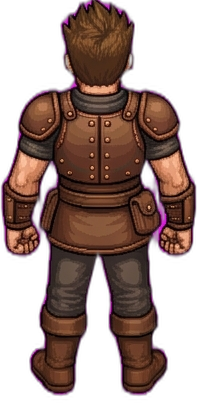
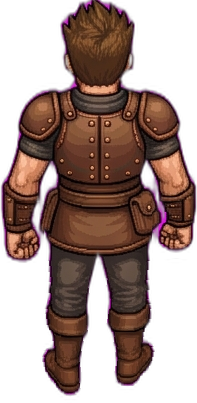
Andar para cima/baixo com passada de verdade (4 quadros)
- tools/player/make_walk_vertical.py gera os ciclos de andar e correr
  para cima e para baixo a partir da arte original: cada perna e
  animada separadamente (contato, passagem) e os bracos balancam
  ao contrario. Antes, para cima eram 3 copias do boneco parado e
  para baixo a mesma perna ficava levantada nos 2 quadros
- game.js carrega 4 quadros em todas as direcoes; de frente/costas o
  balanco vira transferencia de peso para o lado (sem rotacao)

diff --git a/js/game.js b/js/game.js
@@ -230,7 +230,7 @@ class Game {
     // 2. Walk
     ['down', 'up', 'left', 'right'].forEach(dir => {
       this.images.player.walk[dir] = [];
-      const count = (dir === 'left' || dir === 'right') ? 4 : 2;
+      const count = 4;   // 4 quadros em todas as direcoes (cima/baixo: tools/player/make_walk_vertical.py)
       for (let i = 0; i < count; i++) {
         const img = new Image();
         img.src = `assets/player/v2/walk/${dir}_${i}.png?v=${v}`;
@@ -242,7 +242,7 @@ class Game {
     // 3. Run (Athletic Sprint)
     ['down', 'up', 'left', 'right'].forEach(dir => {
       this.images.player.run[dir] = [];
-      const count = (dir === 'left' || dir === 'right') ? 4 : 2;
+      const count = 4;   // 4 quadros em todas as direcoes (cima/baixo: tools/player/make_walk_vertical.py)
       for (let i = 0; i < count; i++) {
         const img = new Image();
         img.src = `assets/player/v2/run/${dir}_${i}.png?v=${v}`;
@@ -3102,11 +3102,14 @@ class Game {
     // Organic walking/running step cadence and subtle torso weight sway
     let stepBounce = 0;
     let swayAngle = 0;
+    let swayX = 0;
     if (this.player.isMoving && !jumpOff && !isSit) {
       // quique e balanco ligados a fase do passo (2 quiques por ciclo, minimo nos contatos do pe)
       const ph = (this.player.stridePhase || 0) * Math.PI * 2, spd = Math.min(1, Math.hypot(this.player.vx, this.player.vy) / 150);
       stepBounce = Math.sin(ph) ** 2 * (this.player.isRunning ? 3.2 : 1.8) * spd;   // sin^2: suave, sem "quina" de |sin|
-      swayAngle = Math.sin(ph) * (this.player.isRunning ? 0.045 : 0.022) * spd;
+      // De lado o corpo inclina; de frente/costas inclinar parece um pendulo: o peso passa de um pe para o outro (desliza para o lado)
+      if (this.player.direction === 'up' || this.player.direction === 'down') swayX = Math.sin(ph) * (this.player.isRunning ? 1.6 : 1.0) * spd;
+      else swayAngle = Math.sin(ph) * (this.player.isRunning ? 0.045 : 0.022) * spd;
     }
 
     // 1. Ground Shadow (shrinks smoothly when jumping in air)
@@ -3192,7 +3195,7 @@ class Game {
     if (frame && frame.naturalHeight > 0) {
       targetW = Math.round((frame.naturalWidth / frame.naturalHeight) * targetH);
     }
-    const drawX = px - targetW / 2;
+    const drawX = px - targetW / 2 + swayX;
     const drawY = py - targetH + 6 - jumpOff - stepBounce;
 
     // Precision Hand Socket Lookup

diff --git a/index.html b/index.html
@@ -207,6 +207,6 @@
   <script src="js/town_plans.js?v=4"></script>
   <script src="js/town_builder.js?v=5"></script>
   <script src="js/palace.js?v=69"></script>
-  <script src="js/game.js?v=72"></script>
+  <script src="js/game.js?v=73"></script>
 </body>
 </html>

diff --git a/tools/player/make_walk_vertical.py b/tools/player/make_walk_vertical.py
@@ -1,0 +1,120 @@
+"""make_walk_vertical.py - Gera os ciclos de andar/correr PARA CIMA e PARA BAIXO do boneco (assets/player/v2).
+
+A arte original tinha so 2 quadros nessas direcoes (para cima eram 3 copias do boneco parado; para baixo a
+perna direita ficava levantada nos dois quadros), entao ele "deslizava" como um robo. Aqui cada perna e
+recortada abaixo do quadril e animada separadamente:
+
+  quadro 0: contato   - apoio na perna esquerda, calcanhar direito saindo do chao
+  quadro 1: passagem  - perna direita dobrada e levantada, passando
+  quadro 2: contato   - espelho do 0
+  quadro 3: passagem  - espelho do 1
+
+Os bracos balancam ao contrario das pernas. Cada quadro tem o tamanho do original (o jogo escala pela
+altura da imagem: mudar o tamanho mudaria o tamanho do boneco).
+
+As bases ficam guardadas em walk/_base_down.png e walk/_base_up.png (copias da arte original), entao o
+script pode rodar de novo sem degradar. Uso: python tools/player/make_walk_vertical.py [assets/player/v2]
+"""
+import os
+import sys
+from PIL import Image
+
+ROOT = sys.argv[1] if len(sys.argv) > 1 else os.path.join(os.path.dirname(os.path.abspath(__file__)), '..', '..', 'assets', 'player', 'v2')
+LEG_TOP = 258                 # linha onde as pernas saem da tunica (sprites de 403-405 px)
+ARM_TOP, ARM_BOT = 196, 266   # trecho do antebraco/mao que balanca
+ARM_L, ARM_R = 44, 152        # colunas: braco esquerdo x < ARM_L, braco direito x >= ARM_R
+CLEAR = (0, 0, 0, 0)
+
+
+def legs_split(im):
+    """coluna do vao entre as pernas (menos pixels opacos na faixa central logo abaixo do quadril)"""
+    a = im.split()[3]
+    cols = range(im.width // 2 - 20, im.width // 2 + 20)
+    return min(cols, key=lambda x: sum(a.getpixel((x, y)) for y in range(LEG_TOP + 4, LEG_TOP + 60)))
+
+
+def symmetric_base(im):
+    """as duas pernas iguais e no chao: a perna esquerda (reta) espelhada no lugar da direita"""
+    split = legs_split(im)
+    out = im.copy()
+    out.paste(Image.new('RGBA', (im.width - split, im.height - LEG_TOP), CLEAR), (split, LEG_TOP))
+    left = im.crop((0, LEG_TOP, split, im.height)).transpose(Image.FLIP_LEFT_RIGHT)
+    out.alpha_composite(left.crop((0, 0, min(left.width, im.width - split), left.height)), (split, LEG_TOP))
+    return out
+
+
+def narrow(leg, center_right, k):
+    """aproxima os pes do centro (quem anda nao fica de pernas abertas). k = largura relativa no pe"""
+    if abs(k - 1) < 1e-3:
+        return leg
+    out = Image.new('RGBA', leg.size, CLEAR)
+    for y in range(leg.height):
+        s = 1 + (k - 1) * (y / max(1, leg.height - 1))
+        w = max(1, int(round(leg.width * s)))
+        row = leg.crop((0, y, leg.width, y + 1)).resize((w, 1), Image.NEAREST)
+        out.alpha_composite(row, (leg.width - w if center_right else 0, y))
+    return out
+
+
+def lift(leg, px):
+    """encolhe a perna de baixo para cima: o pe sobe `px`, o quadril fica no lugar"""
+    if px <= 0:
+        return leg
+    out = Image.new('RGBA', leg.size, CLEAR)
+    out.alpha_composite(leg.resize((leg.width, max(1, leg.height - px)), Image.NEAREST), (0, 0))
+    return out
+
+
+def swing_arm(im, side, dy):
+    """estica (dy > 0, mao mais baixa: braco indo para frente) ou encolhe o antebraco"""
+    if dy == 0:
+        return im
+    x0, x1 = (0, ARM_L) if side == 'L' else (ARM_R, im.width)
+    seg = im.crop((x0, ARM_TOP, x1, ARM_BOT))
+    out = im.copy()
+    out.paste(Image.new('RGBA', seg.size, CLEAR), (x0, ARM_TOP))
+    out.alpha_composite(seg.resize((seg.width, max(1, seg.height + dy)), Image.NEAREST), (x0, ARM_TOP))
+    return out
+
+
+def frame(base, split, lift_l, lift_r, arm_l, arm_r, k):
+    legL = lift(narrow(base.crop((0, LEG_TOP, split, base.height)), True, k), lift_l)
+    legR = lift(narrow(base.crop((split, LEG_TOP, base.width, base.height)), False, k), lift_r)
+    body = base.copy()
+    body.paste(Image.new('RGBA', (base.width, base.height - LEG_TOP), CLEAR), (0, LEG_TOP))
+    body = swing_arm(swing_arm(body, 'L', arm_l), 'R', arm_r)
+    out = Image.new('RGBA', base.size, CLEAR)
+    out.alpha_composite(legL, (0, LEG_TOP))
+    out.alpha_composite(legR, (split, LEG_TOP))
+    out.alpha_composite(body)
+    return out
+
+
+def cycle(base, heel, up, arm, k):
+    split = legs_split(base)
+    h = arm // 2
+    return [
+        frame(base, split, 0, heel, arm, -arm, k),    # contato: apoio na esquerda
+        frame(base, split, 0, up, h, -h, k),          # passagem: direita passando
+        frame(base, split, heel, 0, -arm, arm, k),    # contato: apoio na direita
+        frame(base, split, up, 0, -h, h, k),          # passagem: esquerda passando
+    ]
+
+
+def main():
+    p = lambda rel: os.path.join(ROOT, rel)
+    for rel, orig in (('walk/_base_down.png', 'walk/down_0.png'), ('walk/_base_up.png', 'idle/up_0.png')):
+        if not os.path.exists(p(rel)):
+            Image.open(p(orig)).save(p(rel))
+    down = symmetric_base(Image.open(p('walk/_base_down.png')).convert('RGBA'))
+    up = Image.open(p('walk/_base_up.png')).convert('RGBA')
+    specs = {'walk': dict(heel=6, up=16, arm=3), 'run': dict(heel=10, up=28, arm=6)}
+    for kind, sp in specs.items():
+        for d, base, k in (('down', down, 1.0), ('up', up, 0.72)):
+            for i, f in enumerate(cycle(base, sp['heel'], sp['up'], sp['arm'], k)):
+                f.save(p(f'{kind}/{d}_{i}.png'))
+            print(f'{kind}/{d}: 4 quadros {base.size[0]}x{base.size[1]}')
+
+
+if __name__ == '__main__':
+    main()
